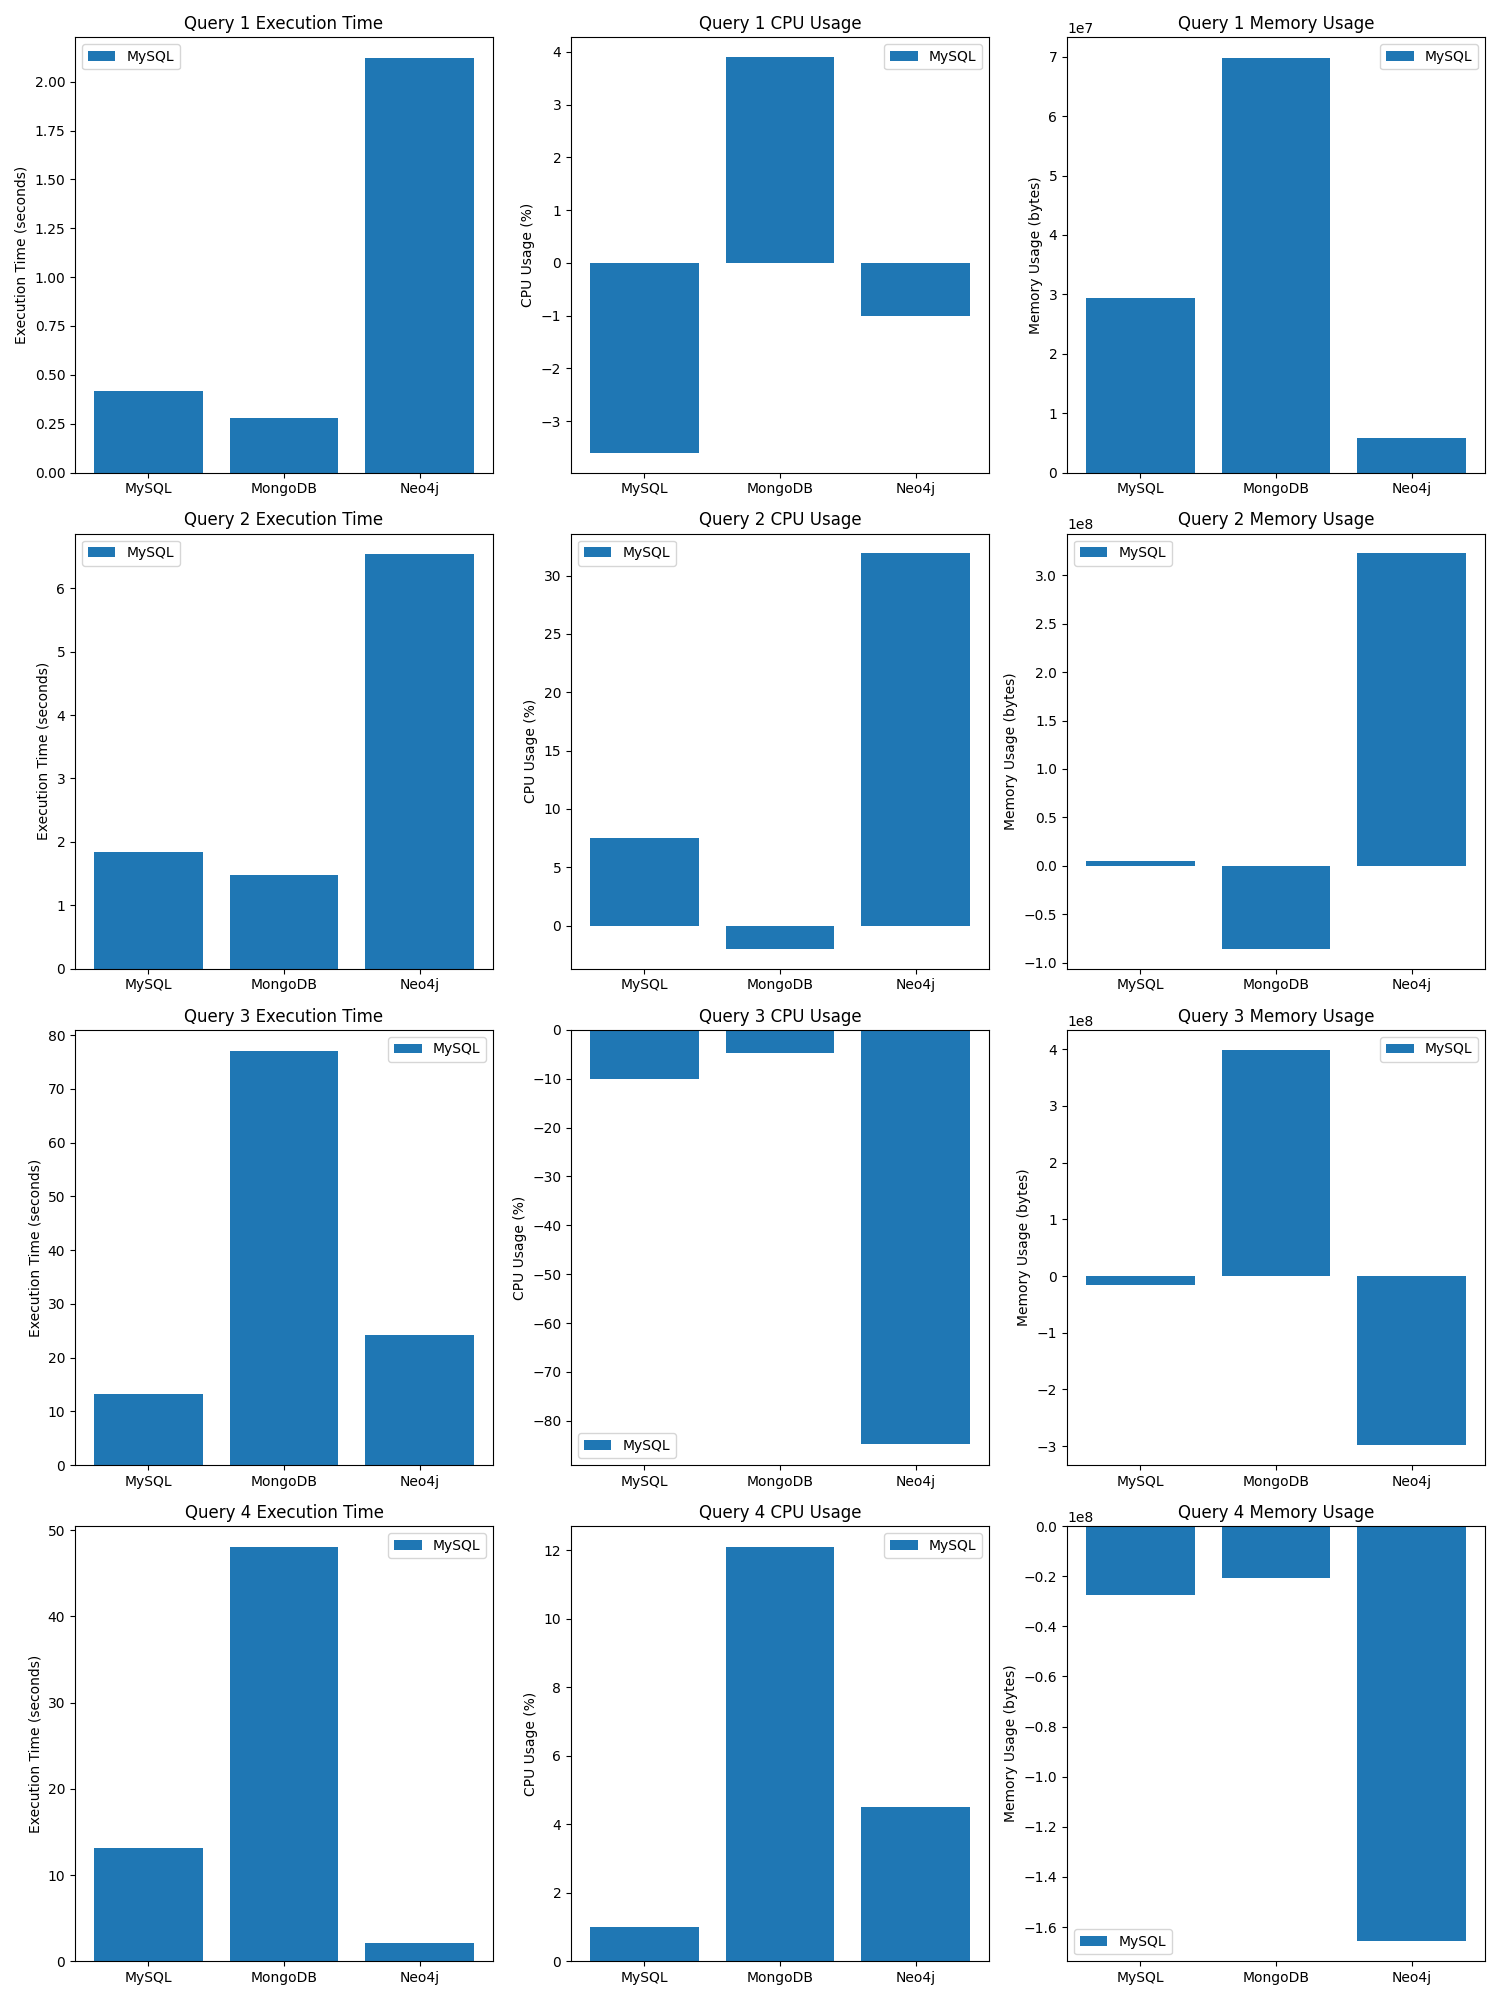
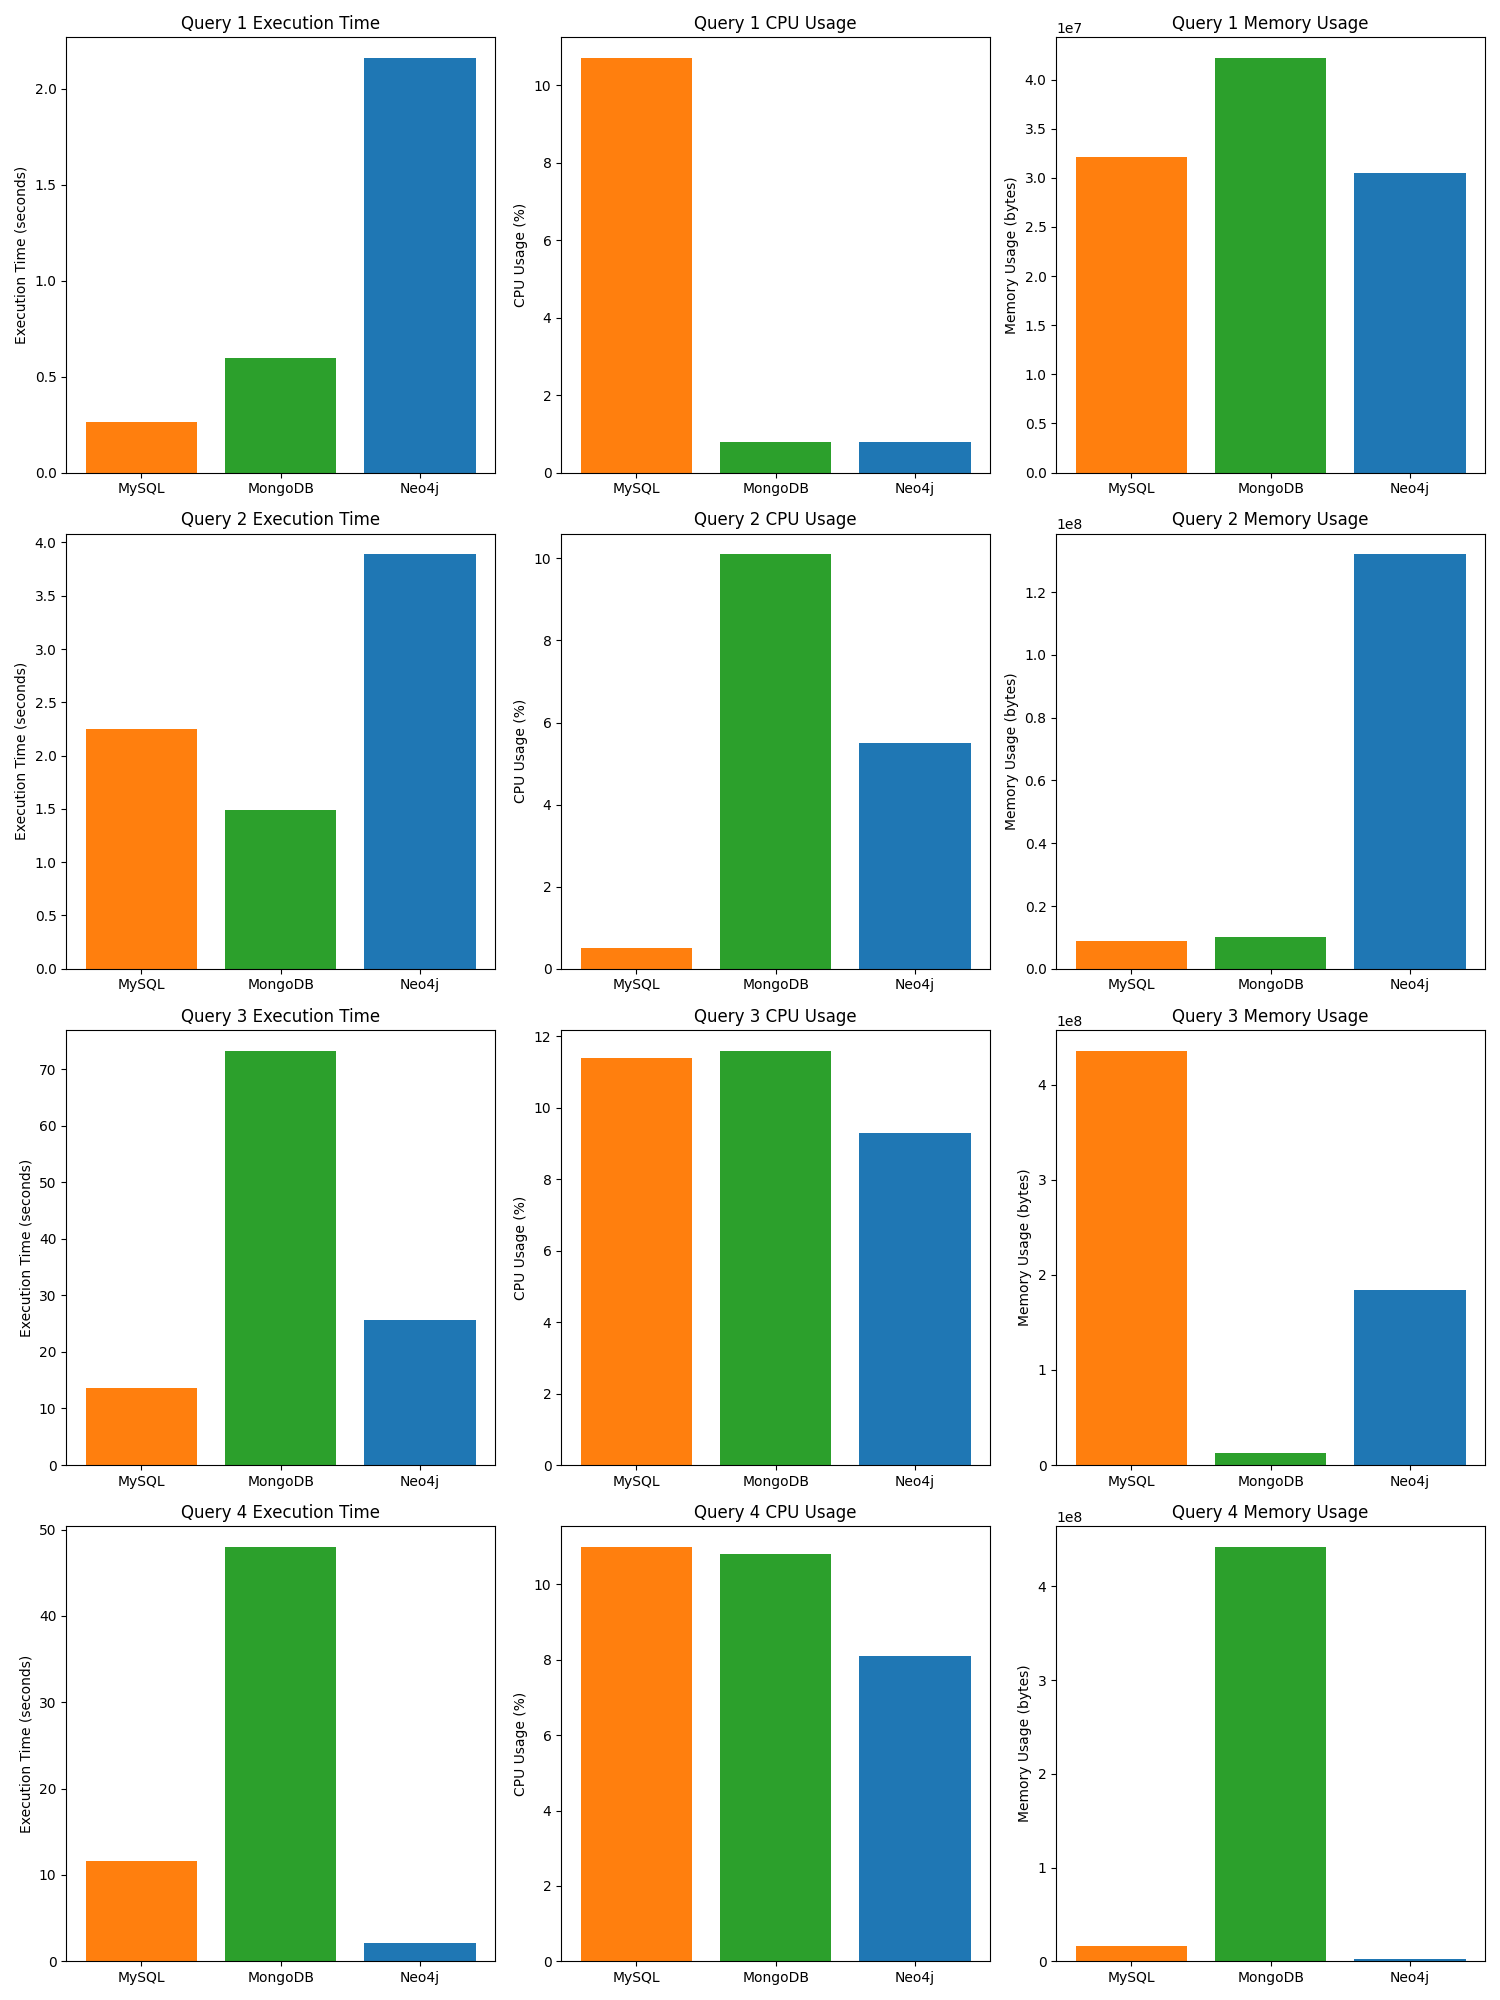
Added the new plots

diff --git a/queries.py b/queries.py
@@ -24,11 +24,11 @@ start_cpu = psutil.cpu_percent()
 start_memory = psutil.virtual_memory().used
 cursor.execute(query)
 results = cursor.fetchall()
+query1_sql_time = time.time() - start_time
+query1_sql_cpu = abs(psutil.cpu_percent() - start_cpu)
+query1_sql_memory = abs(psutil.virtual_memory().used - start_memory)
 for row in results:
     print(f"From: {row[0]}, To: {row[1]}, Distance: {row[2]}")
-query1_sql_time = time.time() - start_time
-query1_sql_cpu = psutil.cpu_percent() - start_cpu
-query1_sql_memory = psutil.virtual_memory().used - start_memory
 print(f'\n\nMySQL Query 1 executed successfully in {query1_sql_time} seconds!')
 print(f'CPU Usage: {query1_sql_cpu}%')
 print(f'Memory Usage: {query1_sql_memory/1024} KB', end="\n\n")
@@ -51,8 +51,8 @@ print("Top 5 Average distance per city pairs:")
 for row in results:
     print(f"From: {row[0]}, To: {row[1]}, Average Distance: {row[2]}")
 query2_sql_time = time.time() - start_time
-query2_sql_cpu = psutil.cpu_percent() - start_cpu
-query2_sql_memory = psutil.virtual_memory().used - start_memory
+query2_sql_cpu = abs(psutil.cpu_percent() - start_cpu)
+query2_sql_memory = abs(psutil.virtual_memory().used - start_memory)
 print(f'\n\nMySQL Query 2 executed successfully in {query2_sql_time} seconds!')
 print(f'CPU Usage: {query2_sql_cpu}%')
 print(f'Memory Usage: {query2_sql_memory/1024} KB', end="\n\n")
@@ -83,8 +83,8 @@ print("Cities within 2 hop from Richmond (MySQL):")
 for row in results:
     print(f"City: {row[0]}, Distance: {row[1]} miles")
 query3_sql_time = time.time() - start_time
-query3_sql_cpu = psutil.cpu_percent() - start_cpu
-query3_sql_memory = psutil.virtual_memory().used - start_memory
+query3_sql_cpu = abs(psutil.cpu_percent() - start_cpu)
+query3_sql_memory = abs(psutil.virtual_memory().used - start_memory)
 print(f'\n\nMySQL Query 3 executed successfully in {query3_sql_time} seconds!')
 print(f'CPU Usage: {query3_sql_cpu}%')
 print(f'Memory Usage: {query3_sql_memory/1024} KB', end="\n\n")
@@ -121,8 +121,8 @@ if result:
 else:
     print("No path found between Richmond and Amman with at most 2 hops.")
 query4_sql_time = time.time() - start_time
-query4_sql_cpu = psutil.cpu_percent() - start_cpu
-query4_sql_memory = psutil.virtual_memory().used - start_memory
+query4_sql_cpu = abs(psutil.cpu_percent() - start_cpu)
+query4_sql_memory = abs(psutil.virtual_memory().used - start_memory)
 print(f"\n\nMySQL Query 4 executed successfully in {query4_sql_time} seconds!")
 print(f'CPU Usage: {query4_sql_cpu}%')
 print(f'Memory Usage: {query4_sql_memory/1024} KB', end="\n\n")
@@ -152,8 +152,8 @@ results = collection.find(query, {"_id": 0})
 for row in results:
     print(f"From: {row['fromCity']}, To: {row['toCity']}, Distance: {row['distance']}")
 query1_mongo_time = time.time() - start_time
-query1_mongo_cpu = psutil.cpu_percent() - start_cpu
-query1_mongo_memory = psutil.virtual_memory().used - start_memory
+query1_mongo_cpu = abs(psutil.cpu_percent() - start_cpu)
+query1_mongo_memory = abs(psutil.virtual_memory().used - start_memory)
 print(f'\n\nMongo Query 1 executed successfully in {query1_mongo_time} seconds!')
 print(f'CPU Usage: {query1_mongo_cpu}%')
 print(f'Memory Usage: {query1_mongo_memory/1024} KB', end="\n\n")
@@ -190,8 +190,8 @@ print("Top 5 Average distance per city pairs:")
 for row in results:
     print(f"From: {row['fromCity']}, To: {row['toCity']}, Average Distance: {row['avg_distance']}")
 query2_mongo_time = time.time() - start_time
-query2_mongo_cpu = psutil.cpu_percent() - start_cpu
-query2_mongo_memory = psutil.virtual_memory().used - start_memory
+query2_mongo_cpu = abs(psutil.cpu_percent() - start_cpu)
+query2_mongo_memory = abs(psutil.virtual_memory().used - start_memory)
 print(f'\n\nMongo Query 2 executed successfully in {query2_mongo_time} seconds!')
 print(f'CPU Usage: {query2_mongo_cpu}%')
 print(f'Memory Usage: {query2_mongo_memory/1024} KB', end="\n\n")
@@ -253,13 +253,14 @@ print("Cities within 2 hops from Richmond:")
 start_time = time.time()
 start_cpu = psutil.cpu_percent()
 start_memory = psutil.virtual_memory().used
+
 results = find_cities_within_hops("Richmond")
 for row in results:
     print(f"City: {row['city']}, Distance: {row['distance']}")
 
 query3_mongo_time = time.time() - start_time
-query3_mongo_cpu = psutil.cpu_percent() - start_cpu
-query3_mongo_memory = psutil.virtual_memory().used - start_memory
+query3_mongo_cpu = abs(psutil.cpu_percent() - start_cpu)
+query3_mongo_memory = abs(psutil.virtual_memory().used - start_memory)
 print(f'\n\nMongo Query 3 executed successfully in {query3_mongo_time} seconds!')
 print(f'CPU Usage: {query3_mongo_cpu}%')
 print(f'Memory Usage: {query3_mongo_memory/1024} KB', end="\n\n")
@@ -312,14 +313,14 @@ start_time = time.time()
 start_cpu = psutil.cpu_percent()
 start_memory = psutil.virtual_memory().used
 path, distance = find_shortest_path_bfs(start_city, end_city, max_hops)
+query4_mongo_time = time.time() - start_time
+query4_mongo_cpu = abs(psutil.cpu_percent() - start_cpu)
+query4_mongo_memory = abs(psutil.virtual_memory().used - start_memory)
 if path:
     print(f"Shortest Path: {' -> '.join(path)}")
     print(f"Distance: {distance}")
 else:
     print(f"No path found between {start_city} and {end_city} within {max_hops} hops.")
-query4_mongo_time = time.time() - start_time
-query4_mongo_cpu = psutil.cpu_percent() - start_cpu
-query4_mongo_memory = psutil.virtual_memory().used - start_memory
 print(f'\n\nMongo Query 4 executed successfully in {query4_mongo_time} seconds!')
 print(f'CPU Usage: {query4_mongo_cpu}%')
 print(f'Memory Usage: {query4_mongo_memory/1024} KB', end="\n\n")
@@ -329,7 +330,6 @@ client.close()
 
 #%%
 from neo4j import GraphDatabase
-from tqdm import tqdm 
 
 # Connect to Neo4j
 uri = "neo4j://localhost:7687"
@@ -354,13 +354,13 @@ start_memory = psutil.virtual_memory().used
 with driver.session() as session:
     results = session.execute_read(find_routes, "Richmond", "Atlanta", 500)
 
+query1_neo_time = time.time() - start_time
+query1_neo_cpu = abs(psutil.cpu_percent() - start_cpu)
+query1_neo_memory = abs(psutil.virtual_memory().used - start_memory)
 # Print the results
 for row in results:
     print(f"From: {row[0]}, To: {row[1]}, Distance: {row[2]}")
 
-query1_neo_time = time.time() - start_time
-query1_neo_cpu = psutil.cpu_percent() - start_cpu
-query1_neo_memory = psutil.virtual_memory().used - start_memory
 print(f'\n\nNeo4j Query 1 executed successfully in {query1_neo_time} seconds!')
 print(f'CPU Usage: {query1_neo_cpu}%')
 print(f'Memory Usage: {query1_neo_memory/1024} KB', end="\n\n")
@@ -383,12 +383,12 @@ start_cpu = psutil.cpu_percent()
 start_memory = psutil.virtual_memory().used
 with driver.session() as session:
     results = session.execute_read(calculate_avg_distance)
+query2_neo_time = time.time() - start_time
+query2_neo_cpu = abs(psutil.cpu_percent() - start_cpu)
+query2_neo_memory = abs(psutil.virtual_memory().used - start_memory)
 print("Top 5 Average distance per city pairs:")
 for row in results:
     print(f"From: {row[0]}, To: {row[1]}, Average Distance: {row[2]}")
-query2_neo_time = time.time() - start_time
-query2_neo_cpu = psutil.cpu_percent() - start_cpu
-query2_neo_memory = psutil.virtual_memory().used - start_memory
 print(f'\n\nNeo4j Query 2 executed successfully in {query2_neo_time} seconds!')
 print(f'CPU Usage: {query2_neo_cpu}%')
 print(f'Memory Usage: {query2_neo_memory/1024} KB', end="\n\n")
@@ -409,11 +409,11 @@ start_cpu = psutil.cpu_percent()
 start_memory = psutil.virtual_memory().used
 with driver.session() as session:
     results = session.execute_read(find_cities_within_hops, "Richmond", 2)
+query3_neo_time = time.time() - start_time
+query3_neo_cpu = abs(psutil.cpu_percent() - start_cpu)
+query3_neo_memory = abs(psutil.virtual_memory().used - start_memory)
 for row in results:
     print(f"City: {row[0]}, Distance: {row[1]}")
-query3_neo_time = time.time() - start_time
-query3_neo_cpu = psutil.cpu_percent() - start_cpu
-query3_neo_memory = psutil.virtual_memory().used - start_memory
 print(f'\n\nNeo4j Query 3 executed successfully in {query3_neo_time} seconds!')
 print(f'CPU Usage: {query3_neo_cpu}%')
 print(f'Memory Usage: {query3_neo_memory/1024} KB', end="\n\n")
@@ -437,14 +437,14 @@ start_cpu = psutil.cpu_percent()
 start_memory = psutil.virtual_memory().used
 with driver.session() as session:
     result = session.execute_read(find_shortest_path, "Richmond", "Amman", 2)
+query4_neo_time = time.time() - start_time
+query4_neo_cpu = abs(psutil.cpu_percent() - start_cpu)
+query4_neo_memory = abs(psutil.virtual_memory().used - start_memory)
 if result:
     print(f"Shortest Path: {' -> '.join([record['name'] for record in result['cities']])}")
     print(f"Distance: {result['total_distance']}")
 else:
     print("No path found between Richmond and Amman with at most 2 hops.")
-query4_neo_time = time.time() - start_time
-query4_neo_cpu = psutil.cpu_percent() - start_cpu
-query4_neo_memory = psutil.virtual_memory().used - start_memory
 print(f'\n\nNeo4j Query 4 executed successfully in {query4_neo_time} seconds!')
 print(f'CPU Usage: {query4_neo_cpu}%')
 print(f'Memory Usage: {query4_neo_memory/1024} KB', end="\n\n")
@@ -526,9 +526,19 @@ axes[3, 2].set_ylabel('Memory Usage (bytes)')
 axes[3, 2].set_title('Query 4 Memory Usage')
 
 # Add a legend to each subplot
+# Define colors for each database
+colors = ['#ff7f0e', '#2ca02c', '#1f77b4'] 
+# Add a legend to each subplot
 for i in range(4):
     for j in range(3):
-        axes[i, j].legend(databases)
+        for k, db in enumerate(databases):
+            axes[i, j].bar(k, [query1_times, query1_cpu, query1_memory,
+                               query2_times, query2_cpu, query2_memory,
+                               query3_times, query3_cpu, query3_memory,
+                               query4_times, query4_cpu, query4_memory][i*3+j][k],
+                           color=colors[k])
+        axes[i, j].set_xticks(range(len(databases)))
+        axes[i, j].set_xticklabels(databases)
 
 # Adjust spacing between subplots
 plt.tight_layout()
@@ -538,4 +548,77 @@ plt.savefig('query_performance_comparison.png')
 
 # Display the plot
 plt.show()
+
+
 # %%
+# Create lists to store the values for each database and query
+databases = ['MySQL', 'MongoDB', 'Neo4j']
+
+query_times = [
+    [query1_sql_time, query1_mongo_time, query1_neo_time],
+    [query2_sql_time, query2_mongo_time, query2_neo_time],
+    [query3_sql_time, query3_mongo_time, query3_neo_time],
+    [query4_sql_time, query4_mongo_time, query4_neo_time]
+]
+
+query_cpu = [
+    [query1_sql_cpu, query1_mongo_cpu, query1_neo_cpu],
+    [query2_sql_cpu, query2_mongo_cpu, query2_neo_cpu],
+    [query3_sql_cpu, query3_mongo_cpu, query3_neo_cpu],
+    [query4_sql_cpu, query4_mongo_cpu, query4_neo_cpu]
+]
+
+query_memory = [
+    [query1_sql_memory, query1_mongo_memory, query1_neo_memory],
+    [query2_sql_memory, query2_mongo_memory, query2_neo_memory],
+    [query3_sql_memory, query3_mongo_memory, query3_neo_memory],
+    [query4_sql_memory, query4_mongo_memory, query4_neo_memory]
+]
+
+# Create a figure for execution time comparison
+fig_time, ax_time = plt.subplots(figsize=(10, 6))
+x = range(len(databases))
+
+for i, times in enumerate(query_times):
+    ax_time.plot(x, times, marker='o', label=f'Query {i+1}')
+
+ax_time.set_xticks(x)
+ax_time.set_xticklabels(databases)
+ax_time.set_ylabel('Execution Time (seconds)')
+ax_time.set_title('Execution Time Comparison')
+ax_time.legend()
+
+plt.tight_layout()
+plt.savefig('execution_time_comparison_line.png')
+
+# Create a figure for CPU usage comparison
+fig_cpu, ax_cpu = plt.subplots(figsize=(10, 6))
+
+for i, cpu in enumerate(query_cpu):
+    ax_cpu.plot(x, cpu, marker='o', label=f'Query {i+1}')
+
+ax_cpu.set_xticks(x)
+ax_cpu.set_xticklabels(databases)
+ax_cpu.set_ylabel('CPU Usage (%)')
+ax_cpu.set_title('CPU Usage Comparison')
+ax_cpu.legend()
+
+plt.tight_layout()
+plt.savefig('cpu_usage_comparison_line.png')
+
+# Create a figure for memory usage comparison
+fig_memory, ax_memory = plt.subplots(figsize=(10, 6))
+
+for i, memory in enumerate(query_memory):
+    ax_memory.plot(x, memory, marker='o', label=f'Query {i+1}')
+
+ax_memory.set_xticks(x)
+ax_memory.set_xticklabels(databases)
+ax_memory.set_ylabel('Memory Usage (bytes)')
+ax_memory.set_title('Memory Usage Comparison')
+ax_memory.legend()
+
+plt.tight_layout()
+plt.savefig('memory_usage_comparison_line.png')
+
+plt.show()
